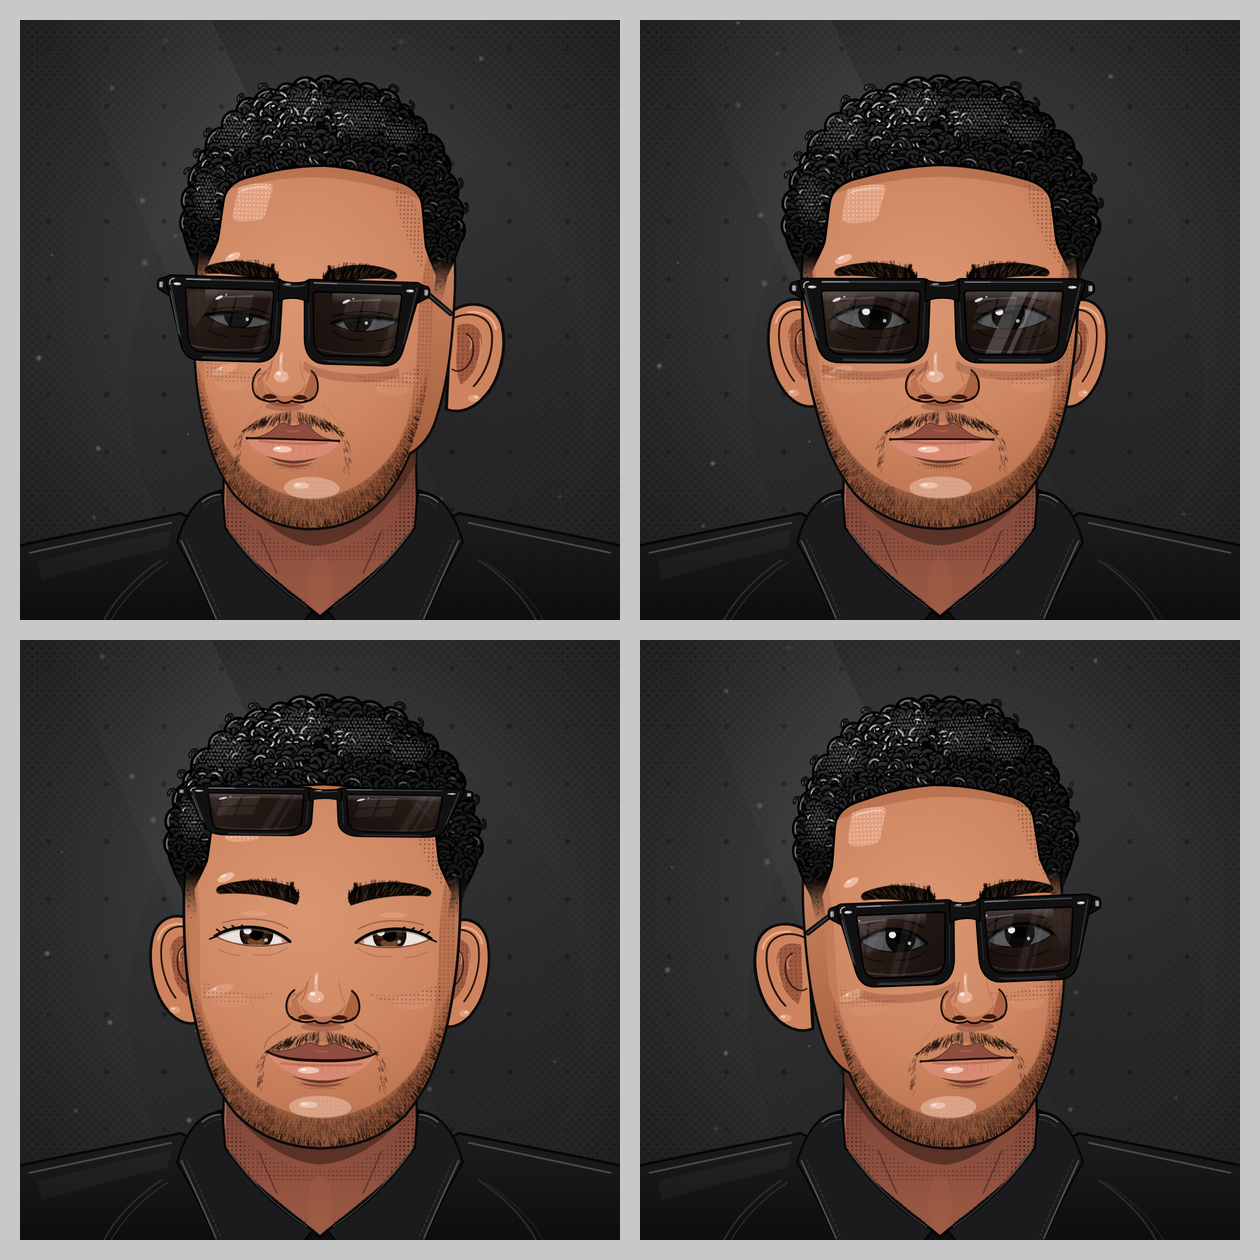
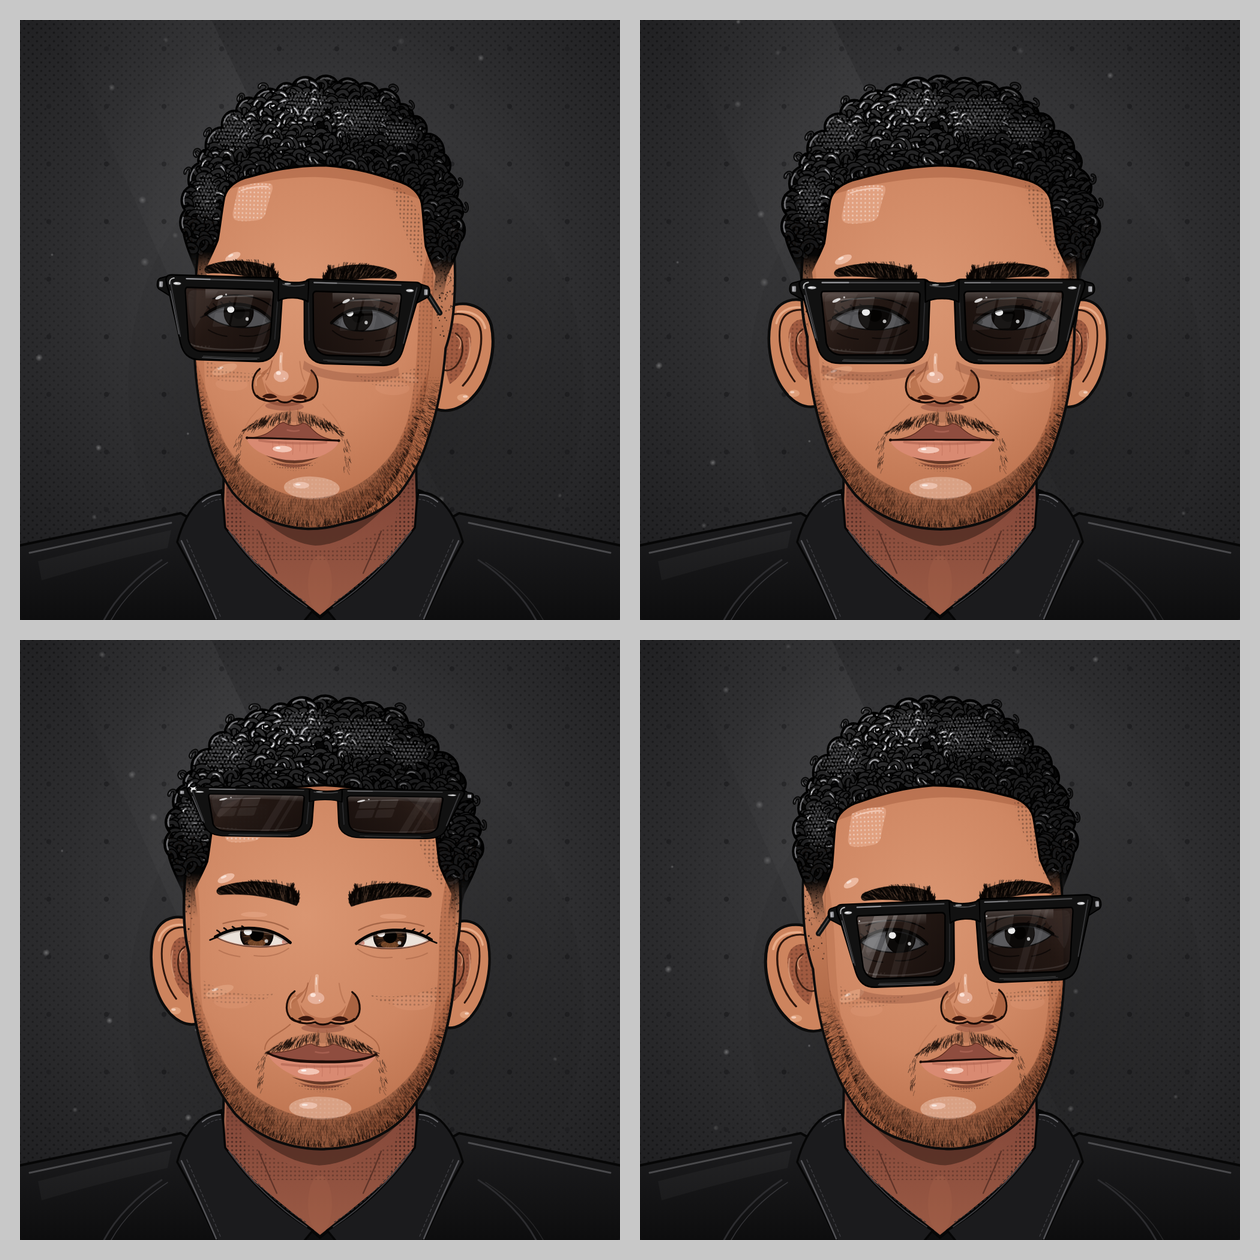
Corrige la jonction oreille / côté de la tête / mâchoire en vue de 3/4
- Les oreilles sont sur le même calque de profondeur que le crâne :
  elles restent attachées quand la tête tourne
- Le bord d'attache de l'oreille n'est plus tracé en noir
- Le bas du crâne suit la mâchoire (plus d'angle plat sous l'oreille)
- Barbe et pointillé du dégradé prolongés sur le côté de la tête
- Léger contour intérieur de la joue pour marquer le changement de plan

Claude-Session: https://claude.ai/code/session_011Zoe9iXMCV5r357t6HUu7k

diff --git a/personnage-anime/index.html b/personnage-anime/index.html
@@ -25,8 +25,8 @@
              ========================================================= -->
         <!-- visage : tempes 280/720, mâchoire 308/692 à y=694, menton y=846 -->
         <path id="facePath" d="M 500 238 C 612 238 700 254 712 330 C 721 400 722 470 720 540 C 717 600 707 652 692 694 C 682 728 666 758 640 790 C 606 824 560 845 500 846 C 440 845 394 824 360 790 C 334 758 318 728 308 694 C 293 652 283 600 280 540 C 278 470 279 400 288 330 C 300 254 388 238 500 238 Z"/>
-        <!-- crâne (côtés de la tête, visibles quand elle tourne) -->
-        <path id="headBasePath" d="M 300 296 C 380 278 620 278 700 296 C 724 340 730 400 728 460 C 726 540 720 600 700 660 C 690 690 670 712 640 722 L 360 722 C 330 712 310 690 300 660 C 280 600 274 540 272 460 C 270 400 276 340 300 296 Z"/>
+        <!-- crâne (côtés de la tête et arrière de la mâchoire, visibles quand elle tourne) -->
+        <path id="headBasePath" d="M 300 296 C 380 278 620 278 700 296 C 724 340 730 400 728 460 C 727 495 721 522 714.5 540.5 C 711.6 599 701.8 649.7 687.2 690.7 C 677.5 723.8 661.9 753.1 636.5 784.3 C 603.4 817.4 558.5 837.9 500 838.9 C 441.5 837.9 396.6 817.4 363.5 784.3 C 338.1 753.1 322.5 723.8 312.8 690.7 C 298.2 649.7 288.4 599 285.5 540.5 C 279 522 273 495 272 460 C 270 400 276 340 300 296 Z"/>
         <!-- limite intérieure de la barbe (la barbe = visage moins cette forme) -->
         <path id="beardInnerPath" d="M 290 592 C 304 664 342 724 390 760 C 428 786 466 797 500 797 C 534 797 572 786 610 760 C 658 724 696 664 710 592 L 710 300 L 290 300 Z"/>
         <path id="neckPath" d="M 340 700 C 340 760 338 820 336 860 C 390 905 445 950 500 994 C 555 950 610 905 664 860 C 662 820 660 760 660 700 Z"/>
@@ -35,7 +35,8 @@
 
         <!-- Oreille gauche (la droite est son miroir) -->
         <g id="ear">
-          <path d="M 296 480 C 270 456 230 462 220 500 C 211 540 222 590 240 615 C 255 637 276 650 298 642 Z" fill="#cd845e" stroke="#0b0b0b" stroke-width="4.5" stroke-linejoin="round"/>
+          <path d="M 314 478 L 296 480 C 270 456 230 462 220 500 C 211 540 222 590 240 615 C 255 637 276 650 298 642 L 314 640 Z" fill="#cd845e"/>
+          <path d="M 296 480 C 270 456 230 462 220 500 C 211 540 222 590 240 615 C 255 637 276 650 298 642" fill="none" stroke="#0b0b0b" stroke-width="4.5" stroke-linecap="round" stroke-linejoin="round"/>
           <path d="M 286 502 C 266 492 248 503 249 530 C 250 560 260 586 278 600 C 285 584 287 558 285 540 Z" fill="#8f4a35" opacity=".72"/>
           <path d="M 286 502 C 266 492 248 503 249 530 C 250 560 260 586 278 600 C 285 584 287 558 285 540 Z" fill="url(#dotsDark)" opacity=".2"/>
           <path d="M 229 505 C 233 486 250 476 270 479" fill="none" stroke="#f0b693" stroke-width="3.6" stroke-linecap="round" opacity=".8"/>
@@ -219,7 +220,10 @@
           <!-- contour unifié crâne + visage (traits d'abord, remplissages ensuite) -->
           <use href="#headBasePath" class="outline" data-z="-20"/>
           <use href="#facePath" class="outline" data-z="40"/>
-          <use href="#headBasePath" fill="url(#headSideGrad)" data-z="-20"/>
+          <g data-z="-20">
+            <use href="#headBasePath" fill="url(#headSideGrad)"/>
+            <image id="sideTex" preserveAspectRatio="none"/>
+          </g>
 
           <!-- visage -->
           <g id="faceLayer" data-z="40">
@@ -269,6 +273,7 @@
               <!-- assombrissement du bas de la mâchoire -->
               <path d="M 310 740 C 366 820 440 846 500 846 C 560 846 634 820 690 740 L 700 870 L 300 870 Z" fill="#8c4a30" opacity=".22"/>
               <image id="stubbleTex" preserveAspectRatio="none"/>
+              <use href="#facePath" fill="none" stroke="#7a3f27" stroke-width="2.4" opacity=".35"/>
             </g>
           </g>
 

diff --git a/personnage-anime/script.js b/personnage-anime/script.js
@@ -335,6 +335,43 @@
     ctx.restore();
   }));
 
+  /* Côté de la tête (visible en 3/4) : pointillé du dégradé près des tempes + barbe le long de la mâchoire */
+  const headBase2D = new Path2D($('#headBasePath').getAttribute('d'));
+  const sideBox = { x: 268, y: 380, w: 464, h: 462 };
+  placeImage('#sideTex', sideBox, paint(sideBox, (ctx) => {
+    ctx.save();
+    ctx.clip(headBase2D);
+    const r = rng(121);
+    const outward = (x, y) => Math.atan2(y - 560, x - 500);
+    const nearEdge = (x, y, d) => {
+      const a = outward(x, y);
+      return !inside(headBase2D, x + Math.cos(a) * d, y + Math.sin(a) * d);
+    };
+    // pointillé du dégradé (tempes → oreilles)
+    for (let i = 0; i < 2600; i++) {
+      const x = sideBox.x + r() * sideBox.w, y = 385 + r() * 150;
+      if (!nearEdge(x, y, 30) || r() > 1 - (y - 385) / 160) continue;
+      ctx.fillStyle = `rgba(16,11,8,${(0.4 + r() * 0.45).toFixed(3)})`;
+      ctx.beginPath(); ctx.arc(x, y, 0.6 + r() * 0.9, 0, TAU); ctx.fill();
+    }
+    // teinte + hachures de barbe le long de la mâchoire (même rendu que sur le visage)
+    ctx.fillStyle = 'rgba(60,30,18,.16)';
+    for (let y = 590; y < 842; y += 5) {
+      for (let x = 270; x < 732; x += 5) {
+        const xx = x + ((y / 5) % 2) * 2.5;
+        if (!nearEdge(xx, y, 34)) continue;
+        ctx.beginPath(); ctx.arc(xx, y, 0.95, 0, TAU); ctx.fill();
+      }
+    }
+    ctx.lineCap = 'round';
+    hairs(ctx, r, 1300, { x: 268, y: 585, w: 464, h: 257 },
+      (x, y) => inside(headBase2D, x, y) && nearEdge(x, y, 34),
+      outward, 6, 6,
+      (x, y, rr) => clamp((y - 590) / 50, 0, 1) * (nearEdge(x, y, 14) ? 0.6 + rr() * 0.35 : 0.2 + rr() * 0.3),
+      0.7, 0.45);
+    ctx.restore();
+  }));
+
   /* Moustache fine (hachures vers le bas et l'extérieur) + liaisons vers le menton */
   const mustacheBox = { x: 380, y: 646, w: 240, h: 112 };
   const mustachePath = new Path2D('M 404 692 C 420 670 450 656 500 652 C 550 656 580 670 596 692 C 580 684 552 674 518 668 L 500 671 L 482 668 C 448 674 420 684 404 692 Z');
@@ -790,7 +827,7 @@
     const sy = Math.sin(yaw);
     const sL = clamp(sy > 0 ? 1 + 0.6 * sy : 1 + 1.7 * sy, 0.06, 1.4);
     const sR = clamp(sy < 0 ? 1 - 0.6 * sy : 1 - 1.7 * sy, 0.06, 1.4);
-    const mEar = layer(-60, yaw, pitch);
+    const mEar = layer(-20, yaw, pitch);       // même profondeur que le crâne : l'oreille reste attachée
     el.earL.setAttribute('transform', `${mstr(mEar)} translate(296 0) scale(${f(sL)} 1) translate(-296 0)`);
     el.earR.setAttribute('transform', `${mstr(mEar)} translate(704 0) scale(${f(sR)} 1) translate(-704 0)`);
 
